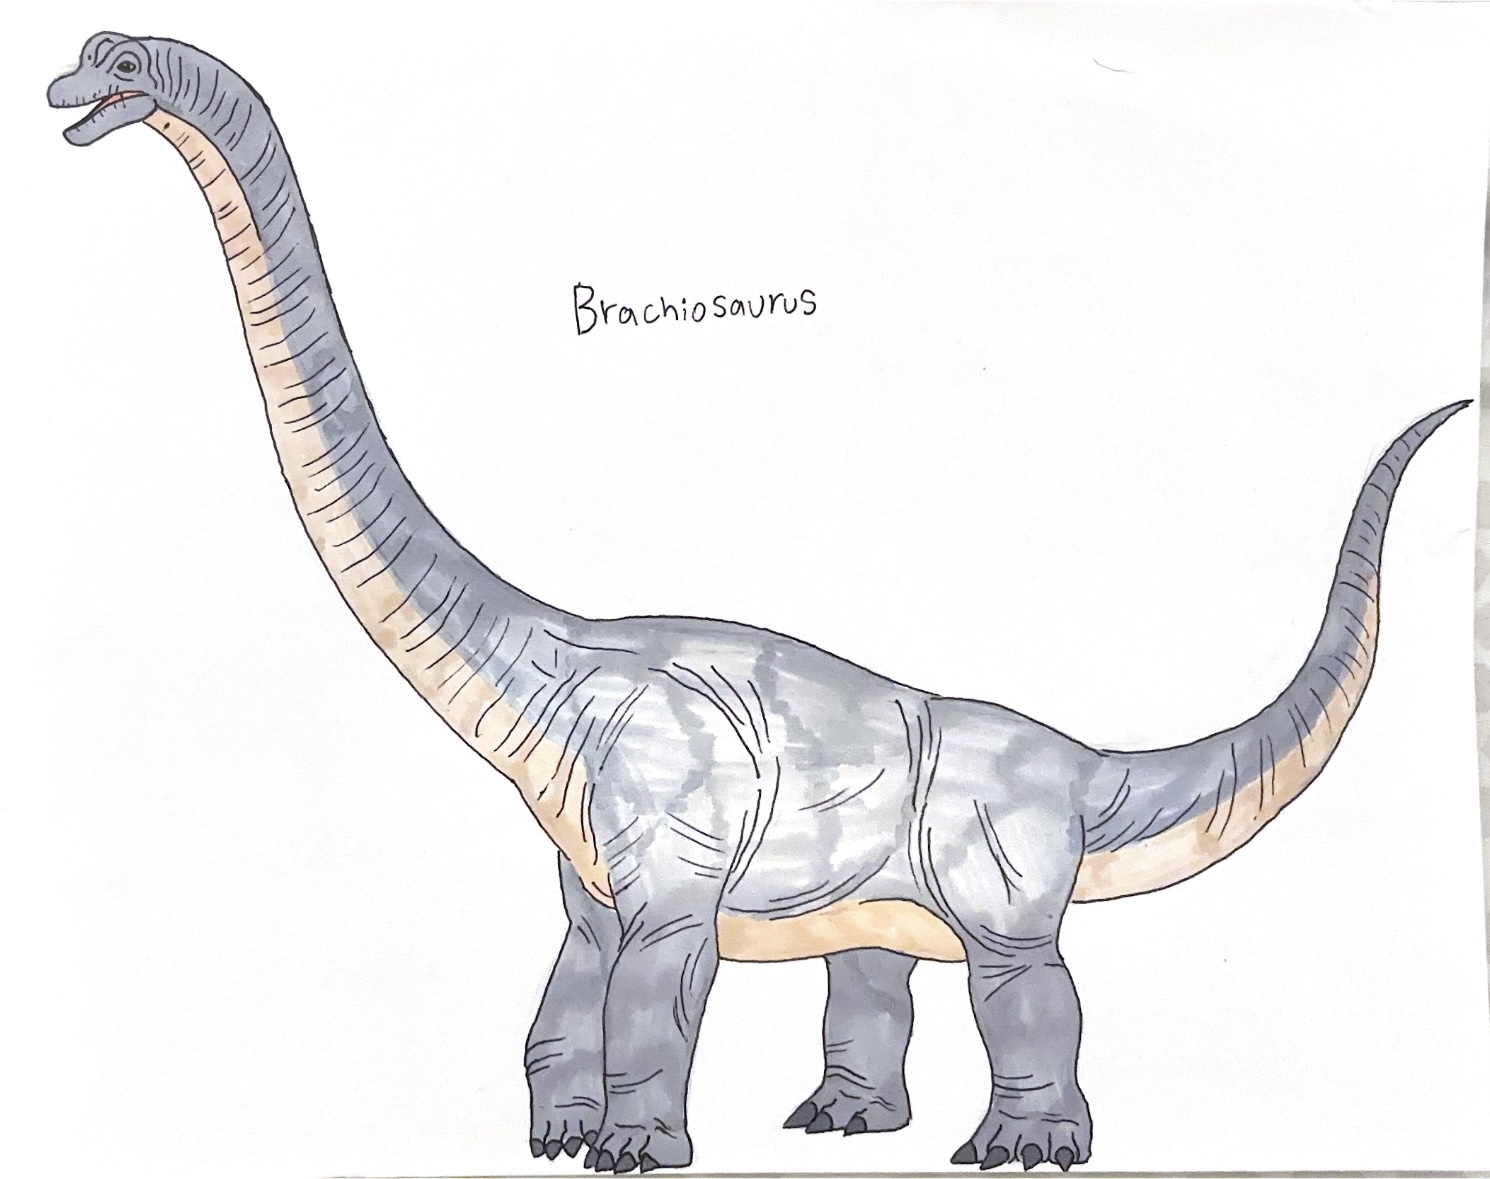
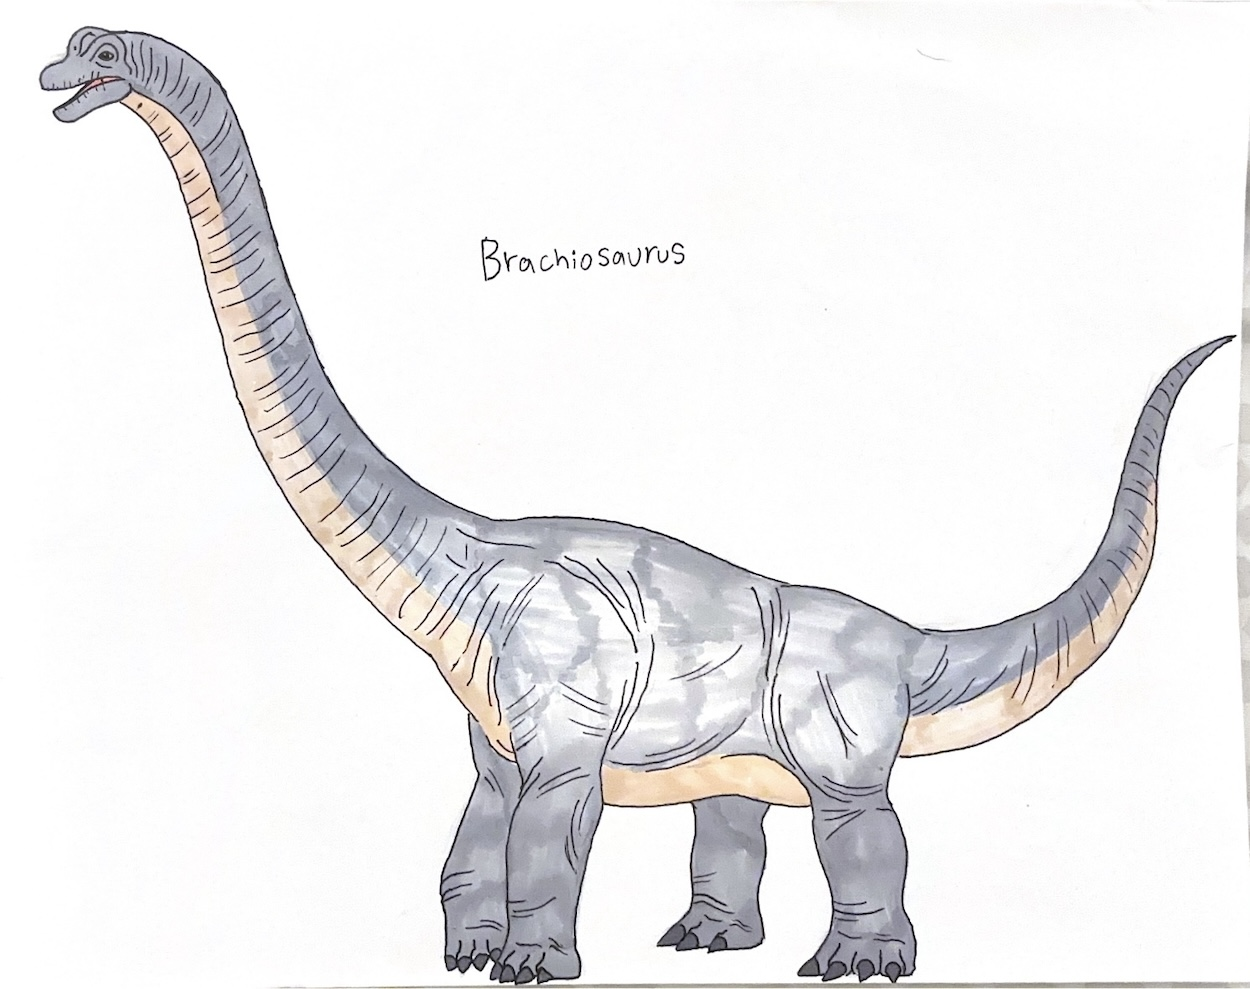
final draft update 1

diff --git a/css/style.css b/css/style.css
@@ -1,7 +1,7 @@
 * {margin: 0; padding: 0; box-sizing: border-box;}
-body {background-color: rgb(0, 44, 92); /* Navy Blue background */color: yellow; font-family: Arial, sans-serif; font-size: 1rem; padding: 30px; line-height: 1.6;}
-h1 {font-family: Helvetica, sans-serif; font-size: 2.875rem; font-weight: bold; color: yellow; margin-bottom: 20px;}
-h2 {font-family: Arial, sans-serif; font-size: 1.625rem; font-weight: 600; color: yellow; margin-bottom: 15px;}
+body {background-color: rgb(0, 44, 92); /* Navy Blue background */color: #FFFFFF; font-family: Arial, sans-serif; font-size: 1rem; padding: 30px; line-height: 1.6;}
+h1 {font-family: Helvetica, sans-serif; font-size: 2.875rem; font-weight: bold; color: yellow; margin-bottom: 20px; text-transform: uppercase;}
+h2 {font-family: Arial, sans-serif; font-size: 1.625rem; font-weight: 600; color: yellow; margin-bottom: 15px; text-transform: uppercase;}
 nav ul {list-style: none; display: flex; gap: 25px; margin-bottom: 40px; padding-bottom: 15px; border-bottom: 1px solid aquamarine;}
 nav a {color: yellow;text-decoration: none;font-weight: bold; font-size: 1.125rem: transition: color 0.2s ease;}
 footer {margin-top: 50px;padding-top: 20px;border-top: 1px solid aquamarine;font-size: 0.875rem;}
@@ -10,7 +10,7 @@ footer {margin-top: 50px;padding-top: 20px;border-top: 1px solid aquamarine;font
 .left-bar, .right-bar {flex: 1; background-color: rgb(0, 44, 92); border: 1px dashed yellow: 20px;border-radius: 4px;}
 .main-content {flex: 2;background-color: rgb(0, 44, 92);border: 1px solid #00FFFF;padding: 25px;border-radius: 4px;}
 .main-content div {border-radius: 4px;box-shadow: 0 0 15px aquamarine; font-size: 2.875rem;}
-h1 {font-family: Helvetica, sans-serif;font-size: 46px;font-weight: bold;color: yellow;text-align: center; margin-bottom: 20px;}
+h1 {font-family: Helvetica, sans-serif;font-size: 46px;font-weight: bold;color: yellow;text-align: center; margin-bottom: 20px; text-transform: uppercase;}
 nav ul {list-style: none;display: flex;justify-content: center;gap: 25px;margin-bottom: 40px;padding-bottom: 15px;border-bottom: 1px solid aquamarine;}
 .hero-section {display: flex;flex-direction: column;align-items: center;justify-content: center;text-align: center;width: 100%; margin: 0 auto;}
 .hero-section img {max-width: 40%;height: auto;}
@@ -18,5 +18,5 @@ nav ul {list-style: none;display: flex;justify-content: center;gap: 25px;margin-
 nav a:hover,main a:hover {color: #ffffff !important;text-decoration: underline;}
 nav a:active,main a:active {color: #00ffff !important;}
 .current-page {color: #ffffff !important;border-bottom: 2px solid yellow; padding-bottom: 5px;}
-img, video {max-width: 100%;height: auto;}
+img, video, iframe {max-width: 100%;}
 @media (max-width: 768px) {.middle-container {grid-template-columns: 1fr;} .hero-section img {max-width: 90%;} .intro-text {width: 90%;}}

diff --git a/gallery.html b/gallery.html
@@ -21,22 +21,22 @@
         <h2 style="text-align: center;">My Art Over The Years</h2>
         <div class="gallery-grid" style="display: grid; grid-template-columns: repeat(auto-fit, minmax(200px, 1fr)); gap: 20px;">
     <div class="grid-item" style="border: 1px solid #00FFFF; padding: 20px; text-align: center;">
-        <img src="images/Allo-vs-Stego.jpeg" alt="Allosaurus vs Stegosaurus 2015" style="width: 100%; height: auto; display: block;">
+        <img src="images/allo-vs-stego.jpeg" alt="Allosaurus vs Stegosaurus 2015" style="width: 100%; height: auto; display: block;">
     </div>
     <div class="grid-item" style="border: 1px solid #00FFFF; padding: 20px; text-align: center;">
-        <img src="images/Brachiosaurus.jpeg" alt="Brachiosaurus 2018" style="width: 100%; height: auto; display: block;">
+        <img src="images/brachiosaurus.jpeg" alt="Brachiosaurus 2018" style="width: 100%; height: auto; display: block;">
     </div>
     <div class="grid-item" style="border: 1px solid #00FFFF; padding: 20px; text-align: center;">
-        <img src="images/Jurassic Park.jpeg" alt="Jurassic Park 2023" style="width: 100%; height: auto; display: block;">
+        <img src="images/jurassic-park.jpeg" alt="Jurassic Park 2023" style="width: 100%; height: auto; display: block;">
     </div>
     <div class="grid-item" style="border: 1px solid #00FFFF; padding: 20px; text-align: center;">
-        <img src="images/Mosasaurus.jpeg" alt="Mosasaurus 2026" style="width: 100%; height: auto; display: block;">
+        <img src="images/mosasaurus.jpeg" alt="Mosasaurus 2026" style="width: 100%; height: auto; display: block;">
     </div>
     <div class="grid-item" style="border: 1px solid #00FFFF; padding: 20px; text-align: center;">
-        <img src="images/Minus One.jpeg" alt="Godzilla Minus One 2023" style="width: 100%; height: auto; display: block;">
+        <img src="images/minus-one.jpeg" alt="Godzilla Minus One 2023" style="width: 100%; height: auto; display: block;">
     </div>
     <div class="grid-item" style="border: 1px solid #00FFFF; padding: 20px; text-align: center;">
-        <img src="images/Godzilla vs Ghidorah.jpeg" alt="Godzilla vs King Ghidorah 2019 " style="width: 100%; height: auto; display: block;">
+        <img src="images/godzilla-vs-ghidorah.jpeg" alt="Godzilla vs King Ghidorah 2019 " style="width: 100%; height: auto; display: block;">
     </div>
 </div>
     </main>

diff --git a/about.html b/about.html
@@ -31,7 +31,7 @@
             <h2 style="text-align: center;">Video Of My Artwork</h2>
             
             <video controls style="width: 100%; aspect-ratio: 16/9;">
-                <source src="Final Project.mp4" type="video/mp4">
+                <source src="final-project.mp4" type="video/mp4">
                 Your browser does not support the video tag.
             </video>
 
@@ -39,9 +39,10 @@
                 Send me an inquiry at: <a href="mailto:dsandate323@gmail.com" style="color: yellow; font-weight: bold; text-decoration: none;">dsandate323@gmail.com</a>
             </p>
             <section style="margin-top: 30px; text-align: center;">
-        <h3>Where I Create</h3><iframe 
-        src="https://openstreetmap.org/export/embed.html?bbox=-118.265,33.855,-118.245,33.870" width="100%" height="250" style="border: 2px solid #00FFFF; border-radius: 8px; max-width: 100%;" title="Map of Studio Location"></iframe>
-            </main>
+        <h3>Where I Create</h3>
+<iframe src="https://www.google.com/maps/embed?pb=!1m18!1m12!1m3!1d3313.0554222796873!2d-118.25699108900785!3d33.86246252761618!2m3!1f0!2f0!3f0!3m2!1i1024!2i768!4f13.1!3m3!1m2!1s0x80c2cb29ddc0f907%3A0x6d78b4c4e9bcbc4e!2sCalifornia%20State%20University%2C%20Dominguez%20Hills!5e0!3m2!1sen!2sus!4v1795576957131!5m2!1sen!2sus" width="600" height="450" style="border:0;" allowfullscreen="" loading="lazy" referrerpolicy="strict-origin-when-cross-origin"></iframe>
+    </section>
+        </main>
          <!-- Right Bar Column text -->
         <aside class="right-bar">
             <p>The video tracks a raw conceptual design from its initial rough canvas construction lines all the way through to its final vibrant color passes, complex rendering layers, and deep environmental shadows. Witnessing this transformation step-by-step highlights the patience and precision required to bring a large-scale creature asset to life in a digital workspace. If you are a student, learner, or independent designer looking to collaborate on future projects or discuss digital illustration techniques, please utilize the contact links provided on the page to get in touch.</p>
